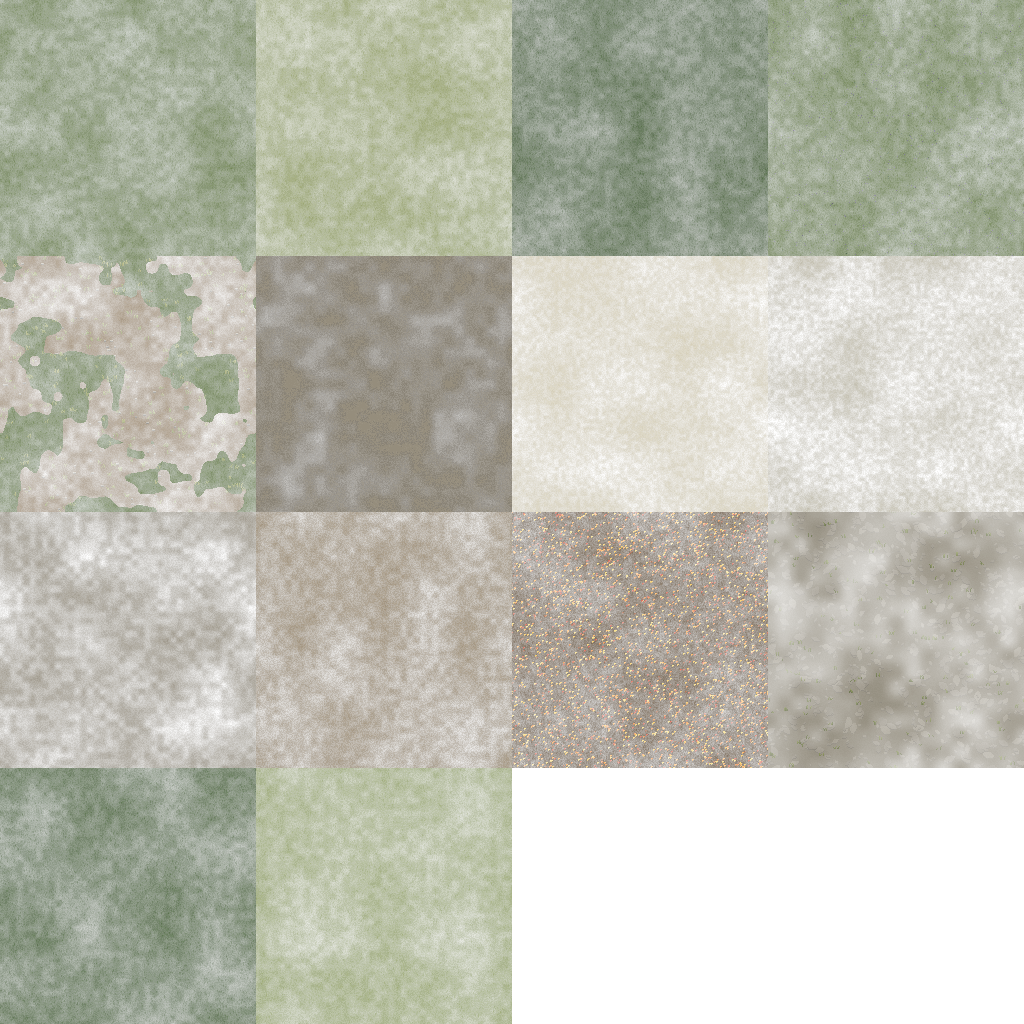
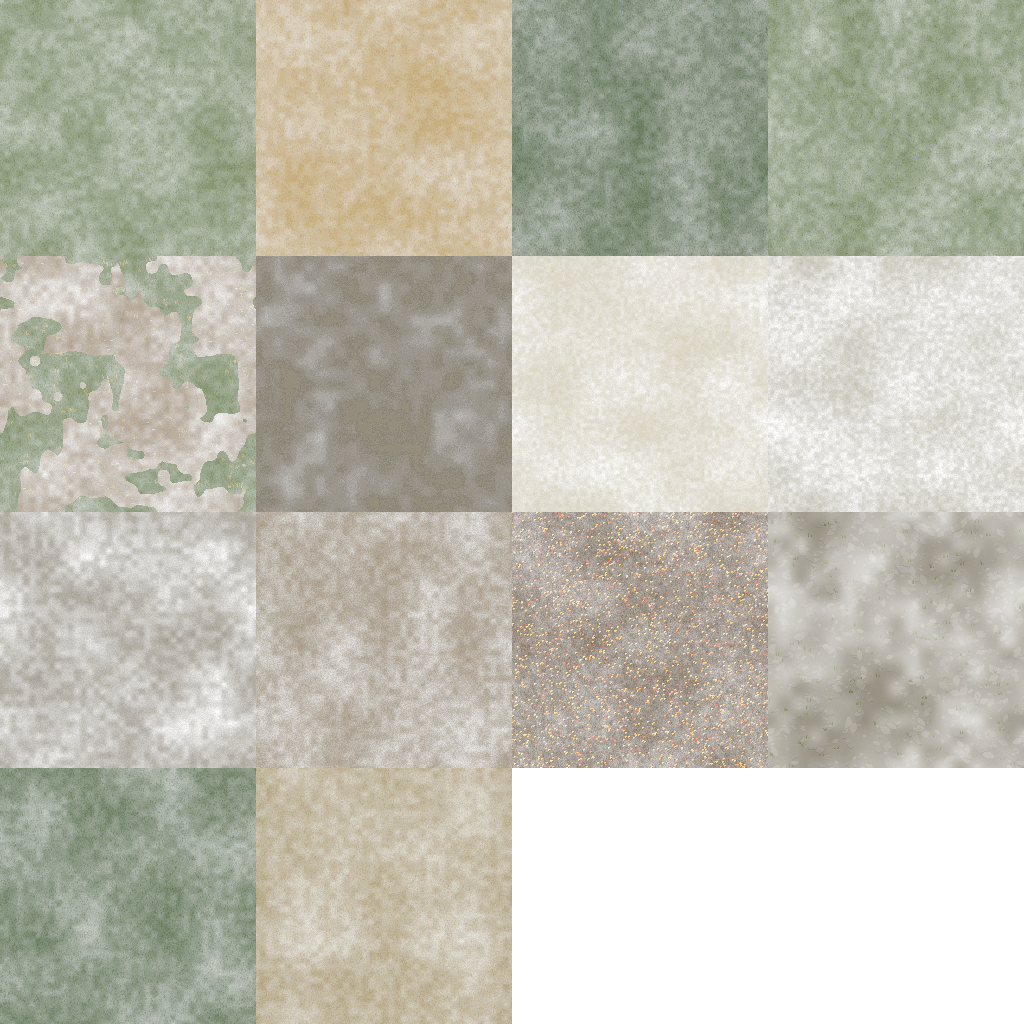
Dog roses at the wood's edge; autumn turned gold all through (D-106, D-107)
Claude-Session: https://claude.ai/code/session_01Kv9KSF8Aj4hxFARJLWGvhc

Changed region(s): [[0.25, 0.0, 0.5, 0.25]]

diff --git a/tools/ground_atlas.py b/tools/ground_atlas.py
@@ -148,11 +148,13 @@ def tiles(wood, season):
         fleck = ["#f2b21e", "#e8701a", "#c4341a", "#f6cf4a", "#8a3a14", "#ff9a22"]
         # (2026-11-12, a Bulgarian's eye: the open ground was "too dry". In the photos an autumn meadow is still green,
         # going gold, the colour is in the trees)
-        grass = ["#5e7432", "#687e38", "#73883e", "#7e9244"] if not conifer else grass
-        dark = ["#4a6230", "#526c34", "#5a7638", "#62803c"] if not conifer else dark
+        # (later the same day, Dominic: "Why would anything be green if it's autumn?" The meadow turned: tawny gold,
+        # rich rather than the pale straw of a dry summer; under the conifers the moss stays)
+        grass = ["#7e6c2e", "#8c7832", "#9a8436", "#a8903c"] if not conifer else grass
+        dark = ["#62542a", "#6c5c2c", "#76642e", "#806c32"] if not conifer else dark
     t = {
         0: make(1, grass, blades=0.06, height=0.55),                                                             # grass (conifer: moss)
-        1: make(2, ["#5c6a32", "#66753a", "#718040", "#7c8a48"], blades=0.05, height=0.5),                        # dry grass (2026-11-12: "too dry": a paler green, not straw)
+        1: make(2, ["#5c6a32", "#66753a", "#718040", "#7c8a48"] if not autumn else ["#86642c", "#94702f", "#a27c34", "#b08838"], blades=0.05, height=0.5),                        # dry grass (2026-11-12: "too dry": a paler green, not straw)
         2: make(3, dark, blades=0.08, height=0.6),                                                                # dark grass
         3: make(4, grass, fleck=["#3b3550", "#4a4466", "#2c4a2a"] if conifer else ["#e8e2b0", "#d9c060", "#c9a0c8"], fleck_n=700 if conifer else 500, blades=0.05, height=0.55),  # meadow (conifer: bilberry)
         4: make(5, ["#3e3123", "#4a3b2a", "#564531", "#614f38"], fine=60, grain=0.35, height=0.35),               # dirt, the trail (2026-11-12: dark earth, not "a yellow trail")
@@ -163,8 +165,8 @@ def tiles(wood, season):
         9: make(10, ["#4d3f2c", "#5a4a33", "#68563b", "#766244"], grain=0.35, height=0.4),                        # bare earth
         10: make(11, litter, fine=50, grain=0.45, fleck=fleck, fleck_n=(3000 if autumn else 2500) if conifer else (9000 if autumn else 4500), blades=0.1 if conifer else 0.0, height=0.5, leaf=autumn),  # forest floor
         11: make(12, ["#5a554c", "#6c665b", "#807868", "#948b78"], coarse=10, fine=64, grain=0.5, height=0.6, rough=0.45),  # scree: gneiss
-        12: make(13, ["#4a6a2e", "#557634", "#60823b", "#6b8e43"] if not conifer else dark, blades=0.06, height=0.55),  # olive grass
-        13: make(14, ["#56662f", "#617236", "#6c7e3d", "#788944"], blades=0.03, grain=0.3, height=0.45),          # worn grass
+        12: make(13, (["#4a6a2e", "#557634", "#60823b", "#6b8e43"] if not autumn else ["#74602a", "#7e6a2e", "#887232", "#927c36"]) if not conifer else dark, blades=0.06, height=0.55),  # olive grass
+        13: make(14, ["#56662f", "#617236", "#6c7e3d", "#788944"] if not autumn else ["#6e5c30", "#786434", "#826c38", "#8c743c"], blades=0.03, grain=0.3, height=0.45),          # worn grass
     }
     # the forest floor is leaves you can see, not a speckle: this year's fall in autumn, last year's brown the rest of
     # the year; and a wood's grass and trail have leaves and tufts and stones on them too
@@ -180,7 +182,7 @@ def tiles(wood, season):
             t[10] = strew(make(11, ["#8a5a26", "#94622a", "#9e6a2e", "#a87232"], coarse=4, fine=12, grain=0.04, height=0.45), 111, 3000, fall, lift=0.04)
             # (only a few blown leaves out on the grass: the carpet of them is under the trees)
             for k, n in ((0, 110), (1, 130), (2, 160), (3, 90), (12, 120), (13, 130)):
-                t[k] = strew(tufts(t[k], 200 + k, 500, ["#7f8f40", "#8a9846", "#75853c"]), 300 + k, n, fall)
+                t[k] = strew(tufts(t[k], 200 + k, 500, ["#a08a3c", "#b09a46", "#8e7834"]), 300 + k, n, fall)
             t[4] = strew(pebbles(make(5, ["#4a3a28", "#54432e", "#5e4b34", "#68543a"], fine=30, grain=0.08, height=0.35), 404, 160, ["#8a8476", "#7a7466"]), 304, 140, fall)
             t[9] = strew(make(10, ["#6e5a3e", "#746042", "#7a6546", "#806a4a"], grain=0.1, height=0.4), 309, 500, fall)
         elif season != "winter":
@@ -198,7 +200,7 @@ def tiles(wood, season):
         earth = ["#5e4c34", "#6a573c", "#766245", "#826d4d"] if season != "autumn" else ["#5a4630", "#655038", "#705a3f", "#7b6446"]
         bed = pebbles(make(5, earth, fine=40, grain=0.2, height=0.35), 404, 160, ["#9b9485", "#b0a896", "#857e70"])
         if not conifer and season == "autumn": bed = strew(bed, 304, 160, fall)
-        t[4] = tufts(worn(bed, t[0], 405), 406, 260, ["#6f8f3c", "#7e9a44", "#5f7a34"] if season != "autumn" else ["#8a9846", "#7f8f40", "#9aa04c"])
+        t[4] = tufts(worn(bed, t[0], 405), 406, 260, ["#6f8f3c", "#7e9a44", "#5f7a34"] if season != "autumn" else ["#a08a3c", "#8e7834", "#b09a46"])
     # bare mountain ground and scree: stones you can see, of many sizes, lying on stony earth with a tuft between them
     t[11] = tufts(strew(strew(make(12, ["#77705f", "#7b7463", "#7f7867", "#837c6b"], coarse=5, fine=16, grain=0.05, height=0.55),
                               512, 420, ["#8a8374", "#8f8879", "#857e6f", "#948d7d"], length=(6.0, 13.0), edge=0.86, drift=False),

diff --git a/archive/decisions.md b/archive/decisions.md
@@ -636,3 +636,14 @@ Claude.) The men's (and the horses') shadows went down and right while the trees
 taken from the sun's light with its fall from the sky in it, not along the ground as the trees' baker lays it, and the
 men's ground was squashed by the old 30 degree camera's half, not by the 22 degree camera's sine. Both fixed, and the
 sheets are now keyed by the shadows' way, so they bake again when it changes.
+
+**D-106, 2026-11-12: Dog roses at the wood's edge.** (Dominic's wife's idea, through Dominic: "instead of ferns, we
+should try rose hip bushes"; "Looks great, let's try rose hip too"; Claude.) Rosa canina: long arching canes a man high
+or more, small leaves, and red hips in twos and threes at the canes' ends. They grow in the wood's mantle where a tree
+or two gives half shade, a few together, and now and then out in the meadow. The hips are orange in high summer and
+scarlet in autumn, and they hang on the bare canes through the winter.
+
+**D-107, 2026-11-12: In autumn nothing is green but the evergreens.** (From Dominic: "Why would anything be green if
+it's autumn?"; Claude.) The meadow grass, the low herbs, the grass tufts, the bushes, the brambles and the male ferns
+all turn tawny gold, rust or red in autumn. This supersedes D-101's "green going gold" meadow. Summer and spring stay
+green. The firs, spruces and pines stay green, and where they grow is the next question (Dominic asked).

diff --git a/archive/journal/2026-11-12-dense-woods.md b/archive/journal/2026-11-12-dense-woods.md
@@ -61,3 +61,15 @@ way was worked out from the light with its downward part still in it, and squash
 
 ![before and after](../images/2026-11-12/73-shadows-before-the-men-down-right-the-tent-left-after-all-one-way.jpg)
 ![the gorge](../images/2026-11-12/75-the-gorge-in-autumn-rust-bracken-in-drifts-and-shadows-one-way.jpg)
+
+## Rose hips and a true autumn (D-106, D-107)
+
+Dominic's wife suggested rose hips. The dog rose is a mantle shrub of the Rhodope woods' edges, so it went there:
+arching canes, small leaves, hips in clusters. In winter the bare canes with their red hips are the best of it.
+
+![dog roses through the year](../images/2026-11-12/77-dog-roses-summer-autumn-late-and-winter-with-their-hips.png)
+
+Then Dominic: "Why would anything be green if it's autumn?" The green was ours: the meadow, herbs, tufts, one bush, a
+fern. All of it turns now, and only the conifers stay green.
+
+![the gorge in autumn](../images/2026-11-12/78-the-gorge-in-autumn-nothing-green-but-the-firs.jpg)

diff --git a/archive/notes/2026-11-12-dominic-forest-density-and-ferns.md b/archive/notes/2026-11-12-dominic-forest-density-and-ferns.md
@@ -107,3 +107,15 @@ this is cloud clinging to and lifting off a wooded slope.
 ## 17:36, the shadows
 
 > One other thing I noticed actually looking at the pictures is the shadows aren't all going the same direction. Shadows of the trees and the shadows of the men are both going in different angles.
+
+## 17:45, after the new ferns
+
+> Looks great, let's try rose hip too
+
+## 17:46, autumn
+
+> The other thing that doesn't make sense is autumn is still a mixture. Why would anything be green if it's autumn?
+
+## 17:46, evergreens
+
+> Do we expect evergreens mixed in with the other ones? What's their general rules of placement in regards to each other?

diff --git a/archive/timeline.md b/archive/timeline.md
@@ -195,3 +195,5 @@ One line per moment worth remembering. Newest at the bottom.
   watercolour filter on trial (D-103, Creel PR 30). ([notes](notes/2026-11-12-dominic-forest-density-and-ferns.md))
 - **2026-11-12:** Bracken patches in the light and male fern shuttlecocks in the shade replace the palm-like fern
   (D-104); the men's shadows fall the trees' way (D-105). ([notes](notes/2026-11-12-dominic-forest-density-and-ferns.md))
+- **2026-11-12:** Dog roses with red hips at the woods' edges (D-106); autumn turned gold all through, the evergreens
+  alone green (D-107). ([notes](notes/2026-11-12-dominic-forest-density-and-ferns.md))
